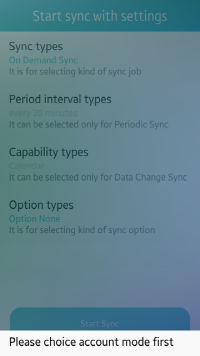
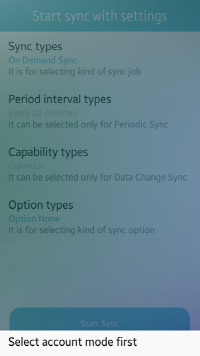
modified pop-up messages and images.

diff --git a/org.tizen.sampledescriptions/html/mobile_n/syncadapterapp_sd_mn.htm b/org.tizen.sampledescriptions/html/mobile_n/syncadapterapp_sd_mn.htm
@@ -87,8 +87,8 @@ create_sync_main_menu(appdata_s *ad)
 	...
 }</pre>
 </li>
-<li>If starting any sync jobs without setting account mode, sync request API can not be delivered. So, first of all, create an account or set as accountless.
-<p class="figure">Figure: Choice account mode</p>
+<li>If you click <strong>Start Sync</strong> button from <strong>Start sync with settings</strong> without selecting account mode, sync request API can not be delivered and you can see the pop-up message, "Select account mode first" like the first below image. So, first of all, create an account or set as accountless from <strong>main screen</strong>. The second and third below images show the case of selecting <strong>Create an account</strong> and <strong>Set as accountless</strong>. Then, you can add sync jobs with account mode you selected unlike the first below image.
+<p class="figure">Figure: Select account mode</p>
 <p align="center"><img alt="Choice Account" src="../images/syncadapterapp_choice_account.png"/> <img alt="Create Account" src="../images/syncadapterapp_create_account.png"/> <img alt="Set Accountless" src="../images/syncadapterapp_set_accountless.png"/></p>
 <p>If you clicked <strong>Create an account</strong>, you can create a dummy account for passing it to sync manager API. Enable sync support on the account.</p>
 <pre class="prettyprint">

diff --git a/org.tizen.sampledescriptions/html/mobile_n/syncadapterserviceapp_sd_mn.htm b/org.tizen.sampledescriptions/html/mobile_n/syncadapterserviceapp_sd_mn.htm
@@ -105,7 +105,7 @@ static bool handleStartSync(account_h account, const char *sync_job_name, const 
 
 	app_control_send_launch_request(app_control, NULL, NULL);
 
-	return 0;
+	return true;
 }</pre>
 </li>
 
